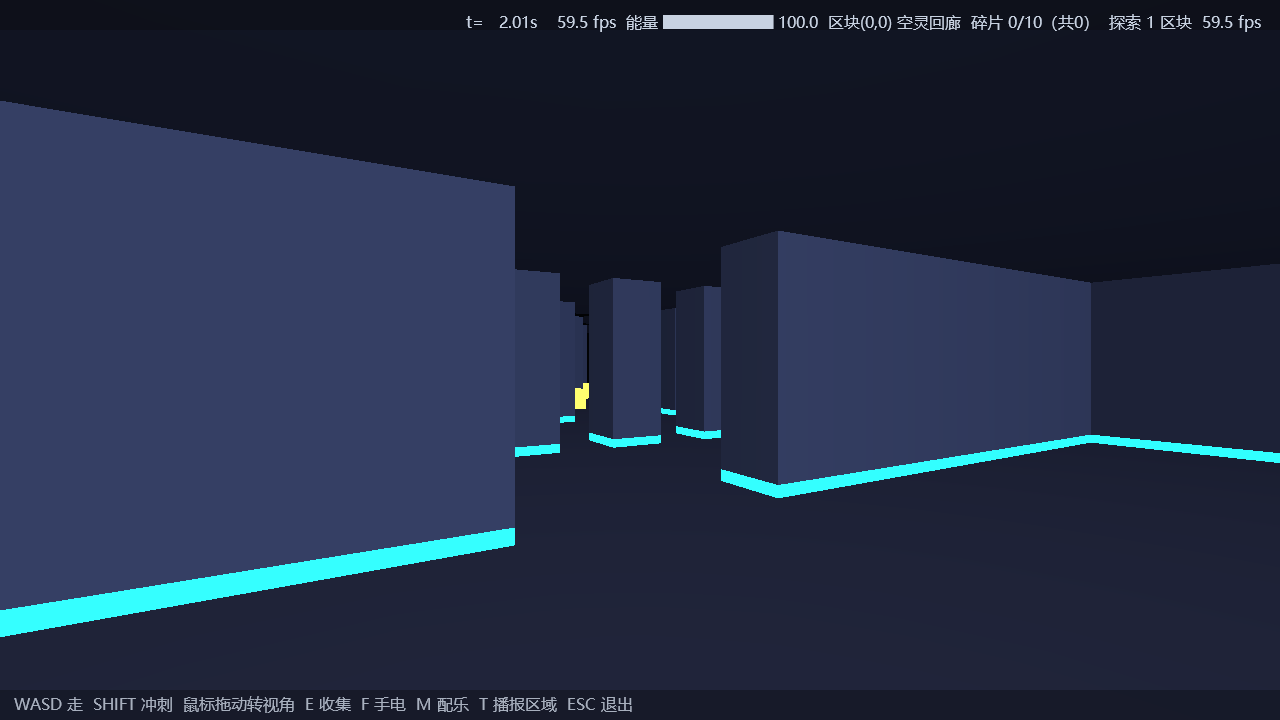
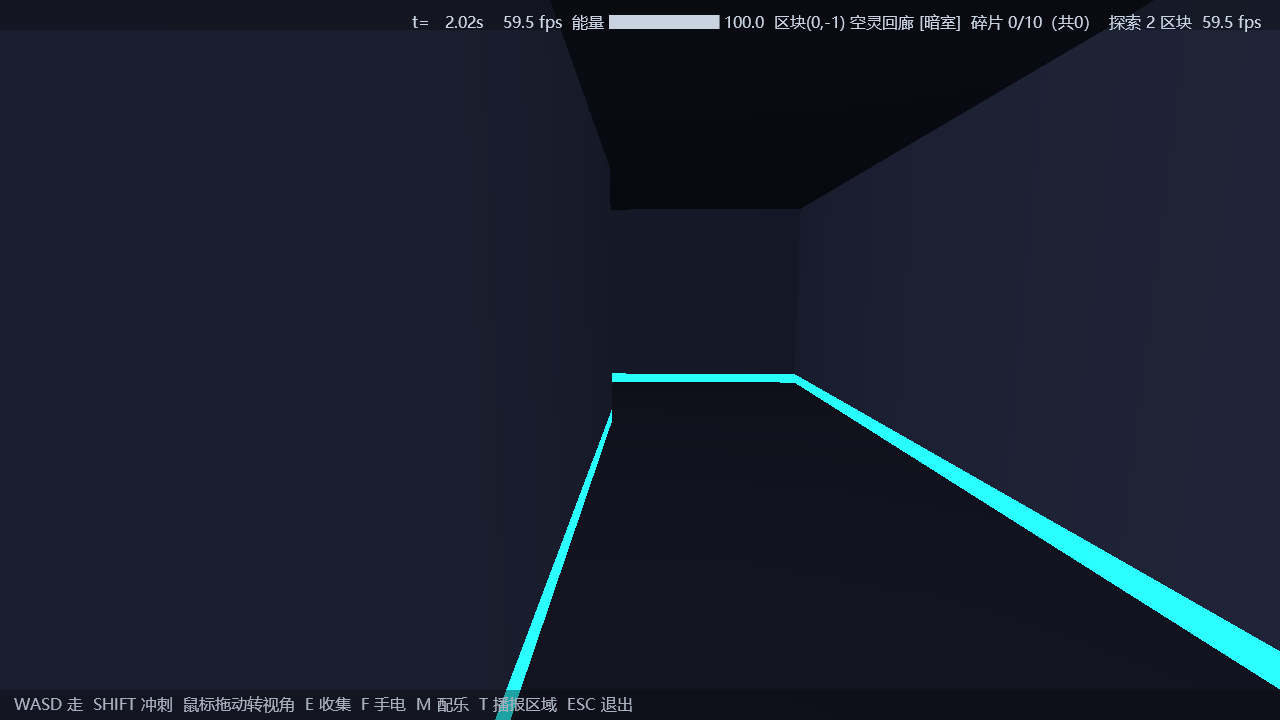
feat(kid_a_3d): 自动探索导航加固（BFS 寻路 + 四层卡死修复）+ 画面调优
导航演进（每层都是实测踩出来的）：
1. 朴素转向导航 -> 绕着格心打转（朝向门控振荡）-> 位移与朝向解耦
2. 门口目标=自身格 -> 每帧 pop->重规划死循环 -> 门槛提到 2.2 + 门外 2.5
3. 门外格属未生成区块（cell=WALL）-> BFS 必败 -> 寻路前先 ensure_neighbors
4. 穿门后被"身后的门"吸回 -> 门间乒乓 -> 来路区块重罚(-4.0) + 停滞兜底

画面：发光踢脚线（kkrieger 走廊标志）、光柱穿顶天花板开洞、
逐格地面/天花板、自动探索轻俯视构图。
实测：24s 探索 8 区块、5 次区域切换、稳定 59 fps。

diff --git a/demos/kid_a_walker_3d.py b/demos/kid_a_walker_3d.py
@@ -392,6 +392,12 @@ class KidAApp(DemoApp):
         self.chunk_cell = {}
         self._go = False                        # --flag go 自动探索
         self._go_turn = 0.0
+        self._go_path = None                    # BFS 路径（格子序列）
+        self._go_path_age = 0.0
+        self._go_last = None
+        self._prev_chunk = None                 # 来路区块（回避回头路）
+        self._visited_prev = None
+        self._go_stuck = 0.0
         self.lamp = True
         self.msg = ''
         self.msg_until = 0.0
@@ -608,15 +614,18 @@ class KidAApp(DemoApp):
             return
         if self._go:
             self._go_step(dt)
+            self.pitch = -7.0              # 自动探索：轻微俯视，构图更稳
         else:
             self.stepper.advance(dt)
         ccx, ccy = self._chunk()
         if (ccx, ccy) not in self.visited:
             self.visited.add((ccx, ccy))
+            self._prev_chunk = getattr(self, '_visited_prev', None)
             self._sync_chunks()
             if self._go:
                 print(f'[go] 区块({ccx},{ccy}) 已探索 {len(self.visited)} 区 '
                       f'zone={self.zone}', flush=True)
+        self._visited_prev = (ccx, ccy)
         cell = self.world.cell(self.px, self.pz)
         self.energy.update(dt, cell, getattr(self, '_moving', False),
                            self._near_glow())
@@ -662,54 +671,137 @@ class KidAApp(DemoApp):
         return best[1], best[2]
 
     def _go_step(self, dt):
-        """自动探索：航点转向 + 前进 + 侧滑避障（录制/自检用）。"""
-        target = self._go_target()
-        if target is not None:
+        """自动探索：**BFS 寻路**到目标出口（栅格已知，稳定不卡死）。"""
+        import collections
+        # 选定目标出口（优先未访问区块）
+        ccx, ccy = self._chunk()
+        exits = self.world.exits.get((ccx, ccy), set())
+        if not exits:
+            self._moving = False
+            return
+        if self._go_path is None or not self._go_path:
+            # 选一个出口：优先未访问邻居 + **回避来路**（防止门间乒乓振荡）。
+            # 位置型判定（"附近有门就跳过"）不可行——"接近门要走"与
+            # "刚从门进来"位置重合；改用**来路记忆**做惩罚。
+            best = None
+            for d in exits:
+                nb = (ccx + (1 if d == 'E' else -1 if d == 'W' else 0),
+                      ccy + (1 if d == 'S' else -1 if d == 'N' else 0))
+                score = (2.0 if nb not in self.visited else 0.0)
+                if nb == self._prev_chunk:
+                    score -= 4.0                    # 来路重罚（仅当无路可走才回头）
+                if best is None or score > best[0]:
+                    best = (score, self._exit_pos(ccx, ccy, d), d)
+            target, tdir = best[1], best[2]
             tx, tz = target
-            want = math.degrees(math.atan2(tz - self.pz, tx - self.px))
-            diff = (want - self.yaw + 540.0) % 360.0 - 180.0
-            self.yaw += max(-150.0 * dt, min(150.0 * dt, diff))
-        fx, fz = self._forward()
-        step = MOVE_SPEED * 1.1 * dt
+            # 已在门口（2.2 内）：目标改为「门外 2.5」——继续穿过门进下一区块。
+            # ⚠ 门槛必须够大：门槛过小时目标就是脚下格子，会出现
+            # "每帧 pop→重规划→再 pop"的死循环（曾把探索锁死在门口）。
+            if math.hypot(tx - self.px, tz - self.pz) < 2.2:
+                if tdir == 'W':
+                    tx -= 2.5
+                elif tdir == 'E':
+                    tx += 2.5
+                elif tdir == 'N':
+                    tz -= 2.5
+                else:
+                    tz += 2.5
+            self._go_path = self._bfs_path((int(self.px), int(self.pz)),
+                                           (int(tx), int(tz)))
+            if not self._go_path:
+                # 兜底：门外目标也解不出（异常地形）→ 换一个出口
+                for d in exits:
+                    if d == tdir:
+                        continue
+                    ex, ez = self._exit_pos(ccx, ccy, d)
+                    self._go_path = self._bfs_path((int(self.px), int(self.pz)),
+                                                   (int(ex), int(ez)))
+                    if self._go_path:
+                        tdir = d
+                        break
+            self._go_path_age = 0.0
+            self._go_last = (ccx + (1 if tdir == 'E' else -1 if tdir == 'W' else 0),
+                             ccy + (1 if tdir == 'S' else -1 if tdir == 'N' else 0))
+        self._go_path_age += dt
 
-        def clear(x, z):
-            return not self._blocked(x, z)
-
-        # 前向 + 左右探针（贴墙时自动向走廊中线回正，避免"贴墙走"）
-        if clear(self.px + fx * (step + 0.4), self.pz + fz * (step + 0.4)):
-            self.px += fx * step
-            self.pz += fz * step
-            self._moving = True
+        # 沿路径走：**位移与朝向解耦**（朝目标格中心直接平移，贴墙滑动；
+        # 朝向只做视觉平滑跟随——避免"绕着格心打转、永远对不齐"的振荡）
+        moved = False
+        if self._go_path:
+            nxt = self._go_path[0]
+            cx, cz = nxt[0] + 0.5, nxt[1] + 0.5
+            if math.hypot(cx - self.px, cz - self.pz) < 0.4:
+                self._go_path.pop(0)
+                if self._go_path:
+                    nxt = self._go_path[0]
+                    cx, cz = nxt[0] + 0.5, nxt[1] + 0.5
+                else:
+                    nxt = None
+            if nxt is not None:
+                dx, dz = cx - self.px, cz - self.pz
+                L = math.hypot(dx, dz) or 1.0
+                step = MOVE_SPEED * 1.55 * dt
+                mx, mz = dx / L * step, dz / L * step
+                if not self._blocked(self.px + mx + (0.05 if mx > 0 else -0.05), self.pz):
+                    self.px += mx
+                    moved = True
+                if not self._blocked(self.px, self.pz + mz + (0.05 if mz > 0 else -0.05)):
+                    self.pz += mz
+                    moved = True
+                # 朝向：平滑跟随移动方向（视觉）
+                want = math.degrees(math.atan2(dz, dx))
+                diff = (want - self.yaw + 540.0) % 360.0 - 180.0
+                self.yaw += max(-260.0 * dt, min(260.0 * dt, diff))
+        self._moving = moved
+        # 停滞兜底：1.5s 没动 -> 强行换向（清路径，随机转身再探索）
+        if moved:
+            self._go_stuck = 0.0
         else:
-            rx, rz = -fz, fx
-            if clear(self.px + rx * (step + 0.4), self.pz + rz * (step + 0.4)):
-                self.px += rx * step * 0.9
-                self.pz += rz * step * 0.9
-                self.yaw += 20.0 * dt
-                self._moving = True
-            elif clear(self.px - rx * (step + 0.4), self.pz - rz * (step + 0.4)):
-                self.px -= rx * step * 0.9
-                self.pz -= rz * step * 0.9
-                self.yaw -= 20.0 * dt
-                self._moving = True
-            else:
-                self.yaw += 150.0 * dt
-                self._moving = False
-        # 居中力：左右两侧距离差 -> 轻微向中线修正（走廊内走得更"正"）
-        rx, rz = -fz, fx
-        for d in (0.9, 1.6, 2.4):
-            lw = self._blocked(self.px - rx * d, self.pz - rz * d)
-            rw = self._blocked(self.px + rx * d, self.pz + rz * d)
-            if lw != rw:
-                sign = 1.0 if lw else -1.0
-                self.px += rx * sign * 1.6 * dt
-                self.pz += rz * sign * 1.6 * dt
-                break
+            self._go_stuck = getattr(self, '_go_stuck', 0.0) + dt
+            if self._go_stuck > 1.5:
+                self._go_stuck = 0.0
+                self._go_path = None
+                self.yaw += 137.0
+                print('[go] 停滞兜底：换向重规划', flush=True)
         self._autocollect -= dt
         if self._autocollect <= 0:
             self._autocollect = 0.2
             self._try_collect()
         self._portal_check()
+
+    def _bfs_path(self, start, goal):
+        """栅格 BFS：返回从 start 到 goal 的格子序列（不含起点）；无解返回 []。
+
+        ⚠ 必须先 ensure_neighbors——"门外一格"属于邻居区块，未生成时
+        ``cell()`` 一律返回 WALL，BFS 会直接失败（曾导致原地卡死）。
+        """
+        import collections
+        self.world.ensure_neighbors(*self._chunk())
+        if start == goal:
+            return []
+        seen = {start}
+        q = collections.deque([(start, [])])
+        n = K.CHUNK
+        ccx, ccy = self._chunk()
+        # 搜索范围：当前区块 ± 1 区块（3×3 已加载区域）
+        lo_x, lo_z = (ccx - 1) * n, (ccy - 1) * n
+        hi_x, hi_z = (ccx + 2) * n, (ccy + 2) * n
+        while q:
+            (x, z), path = q.popleft()
+            if len(path) > 400:
+                return []
+            for dx, dz in ((1, 0), (-1, 0), (0, 1), (0, -1)):
+                nx, nz = x + dx, z + dz
+                if not (lo_x <= nx < hi_x and lo_z <= nz < hi_z):
+                    continue
+                if (nx, nz) in seen or self.world.cell(nx + 0.5, nz + 0.5) == K.WALL:
+                    continue
+                np_ = path + [(nx, nz)]
+                if (nx, nz) == goal:
+                    return np_
+                seen.add((nx, nz))
+                q.append(((nx, nz), np_))
+        return []
 
     def update(self, dt):
         try:

diff --git a/scripts/record_all.py b/scripts/record_all.py
@@ -62,6 +62,8 @@ ENTRIES = [
          ost_fn='logic.nordic_audio:ensure_ost'),  # 北欧配乐（通用 ost 钩子）
     dict(name='blockworld_30s',      mod='demos/blockworld.py',   cls='BlockWorldApp', dur=30.0,
          size=DEMO_SIZE, flags='cine'),            # 可交互方块世界（脚本化运镜）
+    dict(name='kid_a_walker_3d_40s', mod='demos/kid_a_walker_3d.py', cls='KidAApp', dur=40.0,
+         size=DEMO_SIZE, flags='go'),              # KID-A WALKER 3D（自动探索运镜）
 ]
 
 FFMPEG_CANDIDATES = [

diff --git a/demos/README.md b/demos/README.md
@@ -55,9 +55,10 @@ python scripts\verify_demos.py --only boids,water  只验指定 demo
 | `nordic_saga.py` | 60s | **《诺德之境》**：上古卷轴风格程序化动画（雪原遗迹/巨龙/龙语古墙 + 程序化配乐） | `nordic_01..06.png` |
 | `scene_walker.py` | 交互 | **可漫步场景（交互化）**：S1 场景 JSON → 第一人称物理漫步（固定步长抗卡帧）+ 马尔可夫演出变体 + 拾取/E 互动 + **限时挑战（T 键）与跨幕转场结算卡**（音乐张力阶梯 COMBAT_LOW→HIGH）+ SFX/自适应 BGM + 场景热重载 | `scene_walker_01.png` |
 | `blockworld.py` | 交互 | **方块世界 · 可交互版**（voxel_terrain × minecraft_style 结合）：第一人称漫步/跳跃 + **DDA 准星拾取 + 左键挖/右键放 + hotbar(1-6)** + **区块化网格重建**（16 列/块，边界邻块同步；实测编辑 ≈11ms）+ 程序化像素图集与昼夜 | `blockworld_01.png` |
+| `kid_a_walker_3d.py` | 交互 | **KID-A WALKER 3D**（arcade 伪 3D 重制为真 3D）：41 个房间模版 → 区块无限走廊 + **能量/碎片/传送门/暗室** + 区域驱动调色与程序化配乐（ZoneSynth 风格）+ 发光踢脚线走廊美学 | `kid_a_3d_01..03.png` |
 | `scene_viewer.py` | 工具 | **场景查看器（非定时演出）**：加载 `--file` 指定的场景 JSON 并实时渲染，改文件即热重载（坏 JSON 会被拒绝、保留旧场景）——「LLM 场景生成工作流」的"看"这一端；**未声明 `SHOTS`，批量验收跳过截图阶段** | — |
 
-> 上表 16 项与 `demos/*.py`（不含 `_harness.py`）一一对应，也是
+> 上表 17 项与 `demos/*.py`（不含 `_harness.py`）一一对应，也是
 > `scripts/verify_demos.py` 逐项冒烟的对象；唯一不参与截图阶段的是
 > `scene_viewer.py`——它由 `--file` 驱动、没有固定剧照时刻。
 
@@ -82,6 +83,7 @@ python demos\scene_viewer.py --file docs\llm_scene_demo.json --smoke 3
 | `walk` / `interact` / `hotreload`（scene_walker） | 起始进入漫游 / 无人值守自检互动 / 自检热重载（临时副本） |
 | `timed` / `victory`（scene_walker） | 自检：短时限挑战 / 自动三连唤醒（验证结算卡与音乐叙事） |
 | `digdemo` / `topdown`（blockworld） | 自检：自动挖→放闭环（验证 DDA + 区块重建）/ 高空俯瞰诊断视角 |
+| `go`（kid_a_walker_3d） | 自检/录制：自动探索（航点导航 + 走廊居中 + 自动收集） |
 
 常用按键（各 demo 底部有完整帮助行）：`SPACE` 暂停、`ESC` 退出是统一的；
 **方块世界** `N`/`P` 切幕、`←`/`→` 快退快进 5s、`C` 切电影/自由相机、`R` 重播；
